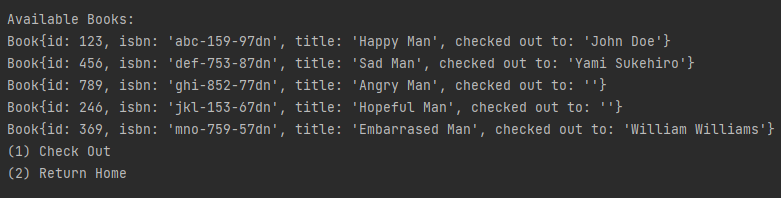
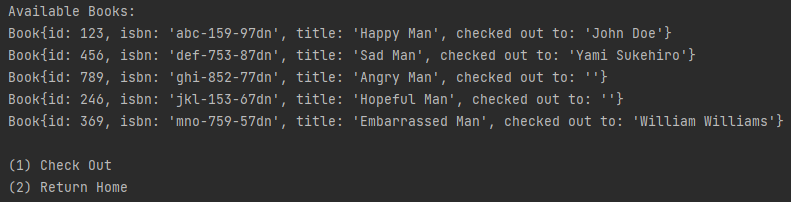
updated show available books formatting

Changed region(s): [[0.0, 0.0303, 1.0, 0.697], [0.0, 0.7273, 0.1844, 0.9697]]

diff --git a/src/main/java/com/pluralsight/NeighborhoodLibrary.java b/src/main/java/com/pluralsight/NeighborhoodLibrary.java
@@ -57,7 +57,7 @@ public class NeighborhoodLibrary {
         }
         while (true) {
             //Check out or exit back to home screen
-            System.out.println("(1) Check Out");
+            System.out.println("\n(1) Check Out");
             System.out.println("(2) Return Home");
             System.out.print("\nPlease select an option: ");
             int selection = scan.nextInt();
